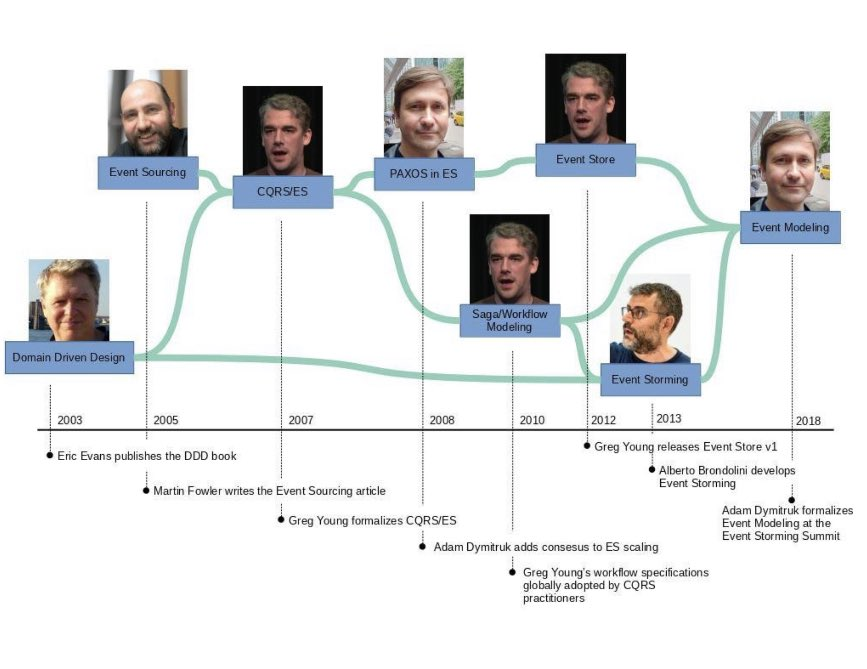
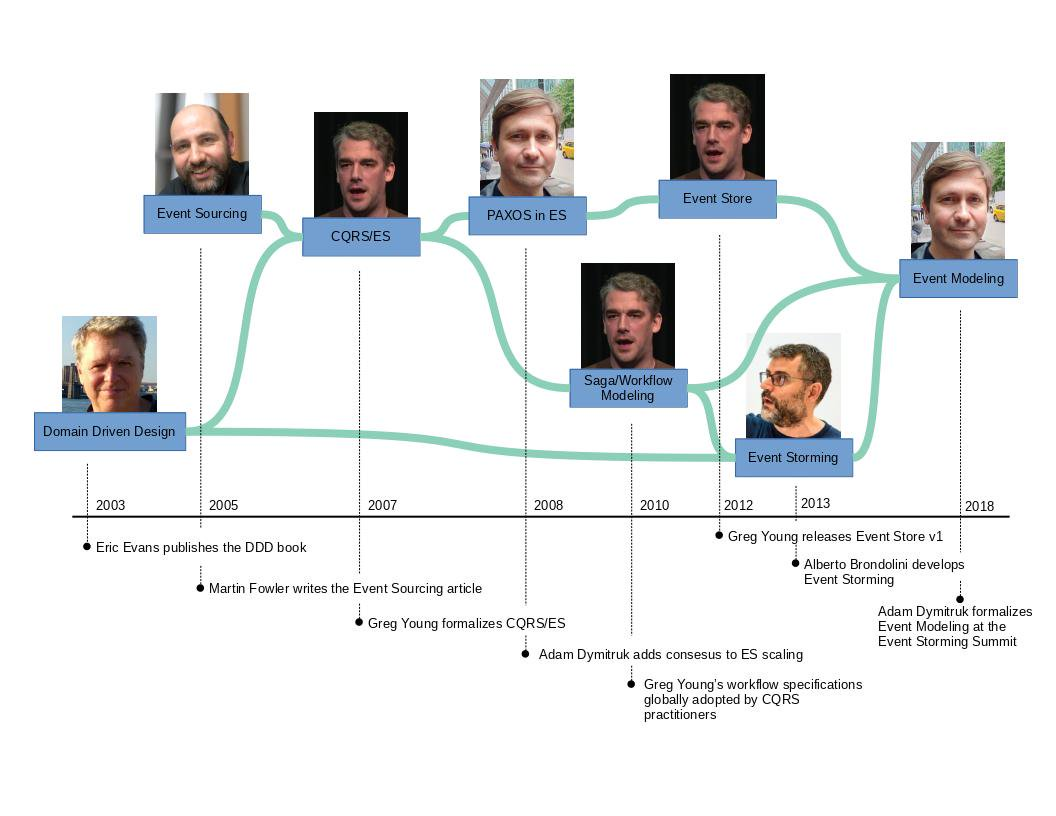
Improving slides about Strategic DDD

Changed region(s): [[0.0, 0.0598, 0.9965, 0.8969]]

diff --git a/docs/index.html b/docs/index.html
@@ -60,9 +60,11 @@
                 <section>
                     <img src="images/joke2.jpg" width="40%" />
                 </section>
+                <!--
                 <section>
                     <img src="images/joke3.jpg" width="40%" />
                 </section>
+                -->
             </section>
 
             <!--
@@ -72,7 +74,6 @@
                 <h2>Agenda</h2>
                 <ol>
                     <li>Who I am</li>
-                    <!-- <li>Context</li> -->
                     <li>Goals</li>
                     <li>Context</li>
                     <li>DDD: "what when why where how"</li>
@@ -81,18 +82,51 @@
                     <li>Implementing Strategical DDD</li>
                     <li>Tactical DDD</li>
                     <li>Implementing Tactical DDD</li>
+                    <li>Who to follow</li>
                     <li>References</li>
                 </ol>
             </section>
             <section>
                 <h2>Goals</h2>
                 <ul>
-                    <li>Design software that teams like maintaining</li>
+                    <li>Explain fundamentals about DDD</li>
+                    <li>Show few techniques from the ecosystem to improve your DDD</li>
+                    <li>Show JVM libraries related to DDD</li>
+                    <li>Encourage to design & implement software that it is easy to operate, maintain & evolve</li>
                     <li>Mitigate "the ball of mud" effect</li>
-                    <li>Learn to use DDD in different project stages</li>
                 </ul>
             </section>
             <section>
+                <section>
+                    <h2>Context</h2>
+                    <p>What is a Software architecture?</p>
+                    <p>
+                        <strong>Architecture is about the important stuff. Whatever that is.</strong>
+                    </p>
+                    <img src="images/cruft.png" />
+                    <br />
+                    <small><strong>Source:</strong>
+                        https://martinfowler.com/architecture/
+                    </small>
+                </section>
+                <section>
+                    <h2>Context</h2>
+                    <p>
+                        <strong><u>Tackling Complexity</u></strong> in the Heart of Software
+                    </p>
+                    <img src="images/ddd-book-eric-evans.jpg" width="35%" />
+                </section>
+                <section>
+                    <h2>Context</h2>
+                    <p>
+                        Timeline
+                    </p>
+                    <img src="images/timeline.jpg" width="60%" />
+                    <br />
+                    <small><strong>Source:</strong>
+                        https://eventmodeling.org/about/
+                    </small>
+                </section>
                 <section>
                     <h2>Context</h2>
                     <p>Microservices with Spring Cloud Kubernetes</p>
@@ -102,6 +136,7 @@
                     <small><strong>Source:</strong>
                         https://tanzu.vmware.com/developer/guides/kubernetes/app-enhancements-spring-k8s/</small>
                 </section>
+                <!--
                 <section>
                     <h2>Context</h2>
                     <p>Microservices architecture on Azure AKS</p>
@@ -120,19 +155,23 @@
                     <small><strong>Source:</strong>
                         https://d1.awsstatic.com/architecture-diagrams/ArchitectureDiagrams/modernize-applications-with-microservices-using-amazon-eks-ra.pdf</small>
                 </section>
+                -->
+                <!--
                 <section data-visibility="hidden">
                     <h2>Context</h2>
                     <p>What activities require more time in your projects?</p>
-                    <!--
+
                     <ul>
                         <li>Design is something Oral</li>
                         <li>The fall of IT Architects with the Agile Age</li>
                         <li>UML didn´t survive</li>
                     </ul>
-                    -->
+
                     <img src="images/poll.jpg" width="25%" />
                 </section>
+                -->
 
+                <!--
                 <section>
                     <h2>Context</h2>
                     <p>
@@ -154,6 +193,7 @@
                     <small><strong>Source:</strong>
                         https://aws.amazon.com/es/solutions/case-studies/monzo/</small>
                 </section>
+                -->
                 <section data-visibility="hidden">
                     <h2>Context</h2>
                     <p>Have that designs an enough detail to create a backlog to start the implementation phase?</p>
@@ -347,6 +387,212 @@
                     <br />
                     <small><strong>Source:</strong>
                         https://github.com/ddd-crew/context-mapping</small>
+                </section>
+                <section>
+                    <h2>Strategic DDD</h2>
+                    <h3>The Context maps patterns: Open Host Service</h3>
+                    <p>
+                        This pattern addresses the case where the power is skewed toward the consumers. The supplier is interested in protecting its consumers and providing the best service possible.
+                    </p>
+                    <p>
+                        To protect the consumers from changes in its implementation, the upstream supplier decouples its implementation model from the public interface.
+                    </p>
+                </section>
+                <section>
+                    <h2>Strategic DDD</h2>
+                    <h3>The Context maps patterns: Open Host Service</h3>
+                    <p>
+                        The supplier’s public interface is not intended to conform to its ubiquitous language. Instead, it is intended to expose a protocol convenient for the consumers
+                    </p>
+                </section>
+                <section>
+                    <h2>Strategic DDD</h2>
+                    <h3>The Context maps patterns: Open Host Service</h3>
+                    <p>
+                        expressed in an integration-oriented language. Hence, the public protocol is called the “published language.”
+                    </p>
+                    <p>
+                        In a sense, the open-host service pattern is a reversal of the anticorruption layer pattern: instead of the consumer, the supplier implements the translation of its internal model.
+                    </p>
+                </section>
+                <section>
+                    <h2>Strategic DDD</h2>
+                    <h3>The Context maps patterns: Open Host Service</h3>
+                    <p>
+                        Context mapper syntax:
+                    </p>
+<pre><code data-trim data-noescape>
+PrintingContext [U,OHS]->[D,ACL] PolicyManagementContext {
+  implementationTechnology = "SOAP"
+}
+</code></pre>
+                    <br />
+                    <small><strong>Source:</strong>
+                        https://contextmapper.org/docs/open-host-service/</small>
+                </section>
+                <section>
+                    <h2>Strategic DDD</h2>
+                    <h3>The Context maps patterns: Conformist</h3>
+                    <p>
+                        This relationship describes the relationship of 2 bounded context,
+                        where the upstream has no interest in supporting the downstream for whatever reason.
+                        Instead, the downstream must conform to whatever the upstream provides.
+                        This can happen when integrating a new feature with a large,
+                        existing solution that is well established; or using a set of APIs,
+                        where the downstream is not the sole customer.
+                    </p>
+                </section>
+                <section>
+                    <h2>Strategic DDD</h2>
+                    <h3>The Context maps patterns: Conformist</h3>
+                    <p>
+                        Context mapper syntax:
+                    </p>
+                    <pre><code data-trim data-noescape>
+PolicyManagementContext [D,CF]<-[U,OHS,PL] CustomerManagementContext {
+  implementationTechnology = "RESTful HTTP"
+}
+</code></pre>
+                    <br />
+                    <small><strong>Source:</strong>
+                        https://contextmapper.org/docs/conformist/</small>
+                </section>
+                <section>
+                    <h2>Strategic DDD</h2>
+                    <h3>The Context maps patterns: Anticorruption Layer</h3>
+                    <p>
+                        This is another upstream/downstream relationship at a lower level,
+                        where the downstream bounded context implements a layer between itself and the upstream.
+                        This layer is responsible for translating the objects given by the upstream into its own models.
+                        This approach will guarantee the integrity of the downstream bounded
+                        context and keeps it completely ignorant of any foreign concepts.
+                        This approach is generally useful for integrating new features
+                        to some existing legacy software, where you can treat the existing legacy software as
+                        a black box bounded context and create an ACL for the new feature.
+                    </p>
+                </section>
+                <section>
+                    <h2>Strategic DDD</h2>
+                    <h3>The Context maps patterns: Anticorruption Layer</h3>
+                    <p>
+                        Context mapper syntax:
+                    </p>
+<pre><code data-trim data-noescape>
+DebtCollection [D,ACL]<-[U,OHS,PL] PrintingContext {
+  implementationTechnology = "SOAP"
+}
+</code></pre>
+                    <br />
+                    <small><strong>Source:</strong>
+                        https://contextmapper.org/docs/anticorruption-layer/</small>
+                </section>
+                <section>
+                    <h2>Strategic DDD</h2>
+                    <h3>The Context maps patterns: Shared Kernel</h3>
+                    <p>
+                        2 or more bounded contexts can share a common model.
+                        In design terms, the Ubiquitous Language of this shared part is common
+                        both all relevent teams. In code terms, you may have a shared library,
+                        or a service. This is generally a small codebase but difficult
+                        to maintain as its related bounded contexts develop,
+                        as the teams will tend to go on separate ways as their own
+                        bounded contexts evolve.
+                    </p>
+                </section>
+                <section>
+                    <h2>Strategic DDD</h2>
+                    <h3>The Context maps patterns: Shared Kernel</h3>
+                    <p>
+                        Context mapper syntax:
+                    </p>
+<pre><code data-trim data-noescape>
+CargoBookingContext [SK]<->[SK] VoyagePlanningContext {
+  implementationTechnology = "Java Library"
+}
+</code></pre>
+                    <br />
+                    <small><strong>Source:</strong>
+                        https://contextmapper.org/docs/shared-kernel/</small>
+                </section>
+                <section>
+                    <h2>Strategic DDD</h2>
+                    <h3>The Context maps patterns: Customer/Supplier</h3>
+                    <p>
+                        This approach puts 2 bounded contexts into an upstream and downstream,
+                        where the upstream is the supplier, and has to try and meet
+                        the expectations of the customer (downstream).
+                        But the final decision of what the customer gets comes from the supplier.
+                        This typically works in an autonomous environment within
+                        the same organisation, or if the customer is the sole client of the supplier.
+                    </p>
+                </section>
+                <section>
+                    <h2>Strategic DDD</h2>
+                    <h3>The Context maps patterns: Customer/Supplier</h3>
+                    <p>
+                        Context mapper syntax:
+                    </p>
+                    <pre><code data-trim data-noescape>
+CustomerSelfServiceContext [D,C]<-[U,S] CustomerManagementContext
+</code></pre>
+                    <br />
+                    <small><strong>Source:</strong>
+                        https://contextmapper.org/docs/customer-supplier/</small>
+                </section>
+                <section>
+                    <h2>Strategic DDD</h2>
+                    <h3>The Context maps patterns: Partnership</h3>
+                    <p>
+                        It describes more about the relationship between teams as oppose to actual code.
+                        This typically happens when 2 teams working on 2 bounded contexts have aligned and dependent set of goals.
+                        Each team should at least understand some of their partner’s Ubiquitous Language,
+                        namely the things that are interesting to their own context.
+                        This can work fairly well when both bounded contexts are at early stages of the project,
+                        where communication is quick and more efficient than implementing some of the other techniques.
+                        When both sides become more established, teams may incur too much commitment
+                        in understanding each other’s Ubiquitous Language.
+                        Of course, if a team was to work on both such bounded contexts,
+                        the ‘Partnership’ relationship would be much less costly.                    </p>
+                </section>
+                <section>
+                    <h2>Strategic DDD</h2>
+                    <h3>The Context maps patterns: Partnership</h3>
+                    <p>
+                        Context mapper syntax:
+                    </p>
+                    <pre><code data-trim data-noescape>
+ContractsContext [P]<->[P] ClaimsContext {
+  implementationTechnology = "Messaging"
+}
+</code></pre>
+                    <br />
+                    <small><strong>Source:</strong>
+                        https://contextmapper.org/docs/partnership/</small>
+                </section>
+                <section>
+                    <h2>Strategic DDD</h2>
+                    <h3>The Context maps patterns: Published Language</h3>
+                    <p>
+                        Common language for the translation between the models that are going to interact.
+                        For example JSON or XML. Usually associated with OHS.
+                        The advantage of using REST services is that in each request the PL
+                        can be specified by configuring the desired content type.
+                    </p>
+                </section>
+                <section>
+                    <h2>Strategic DDD</h2>
+                    <h3>The Context maps patterns: Published Language</h3>
+                    <p>
+                        Context mapper syntax:
+                    </p>
+                    <pre><code data-trim data-noescape>
+PolicyManagementContext [D,CF]<-[U,OHS,PL] CustomerManagementContext {
+  implementationTechnology = "RESTful HTTP"
+}
+</code></pre>
+                    <br />
+                    <small><strong>Source:</strong>
+                        https://contextmapper.org/docs/published-language/</small>
                 </section>
                 <section>
                     <h2>Strategic DDD</h2>
